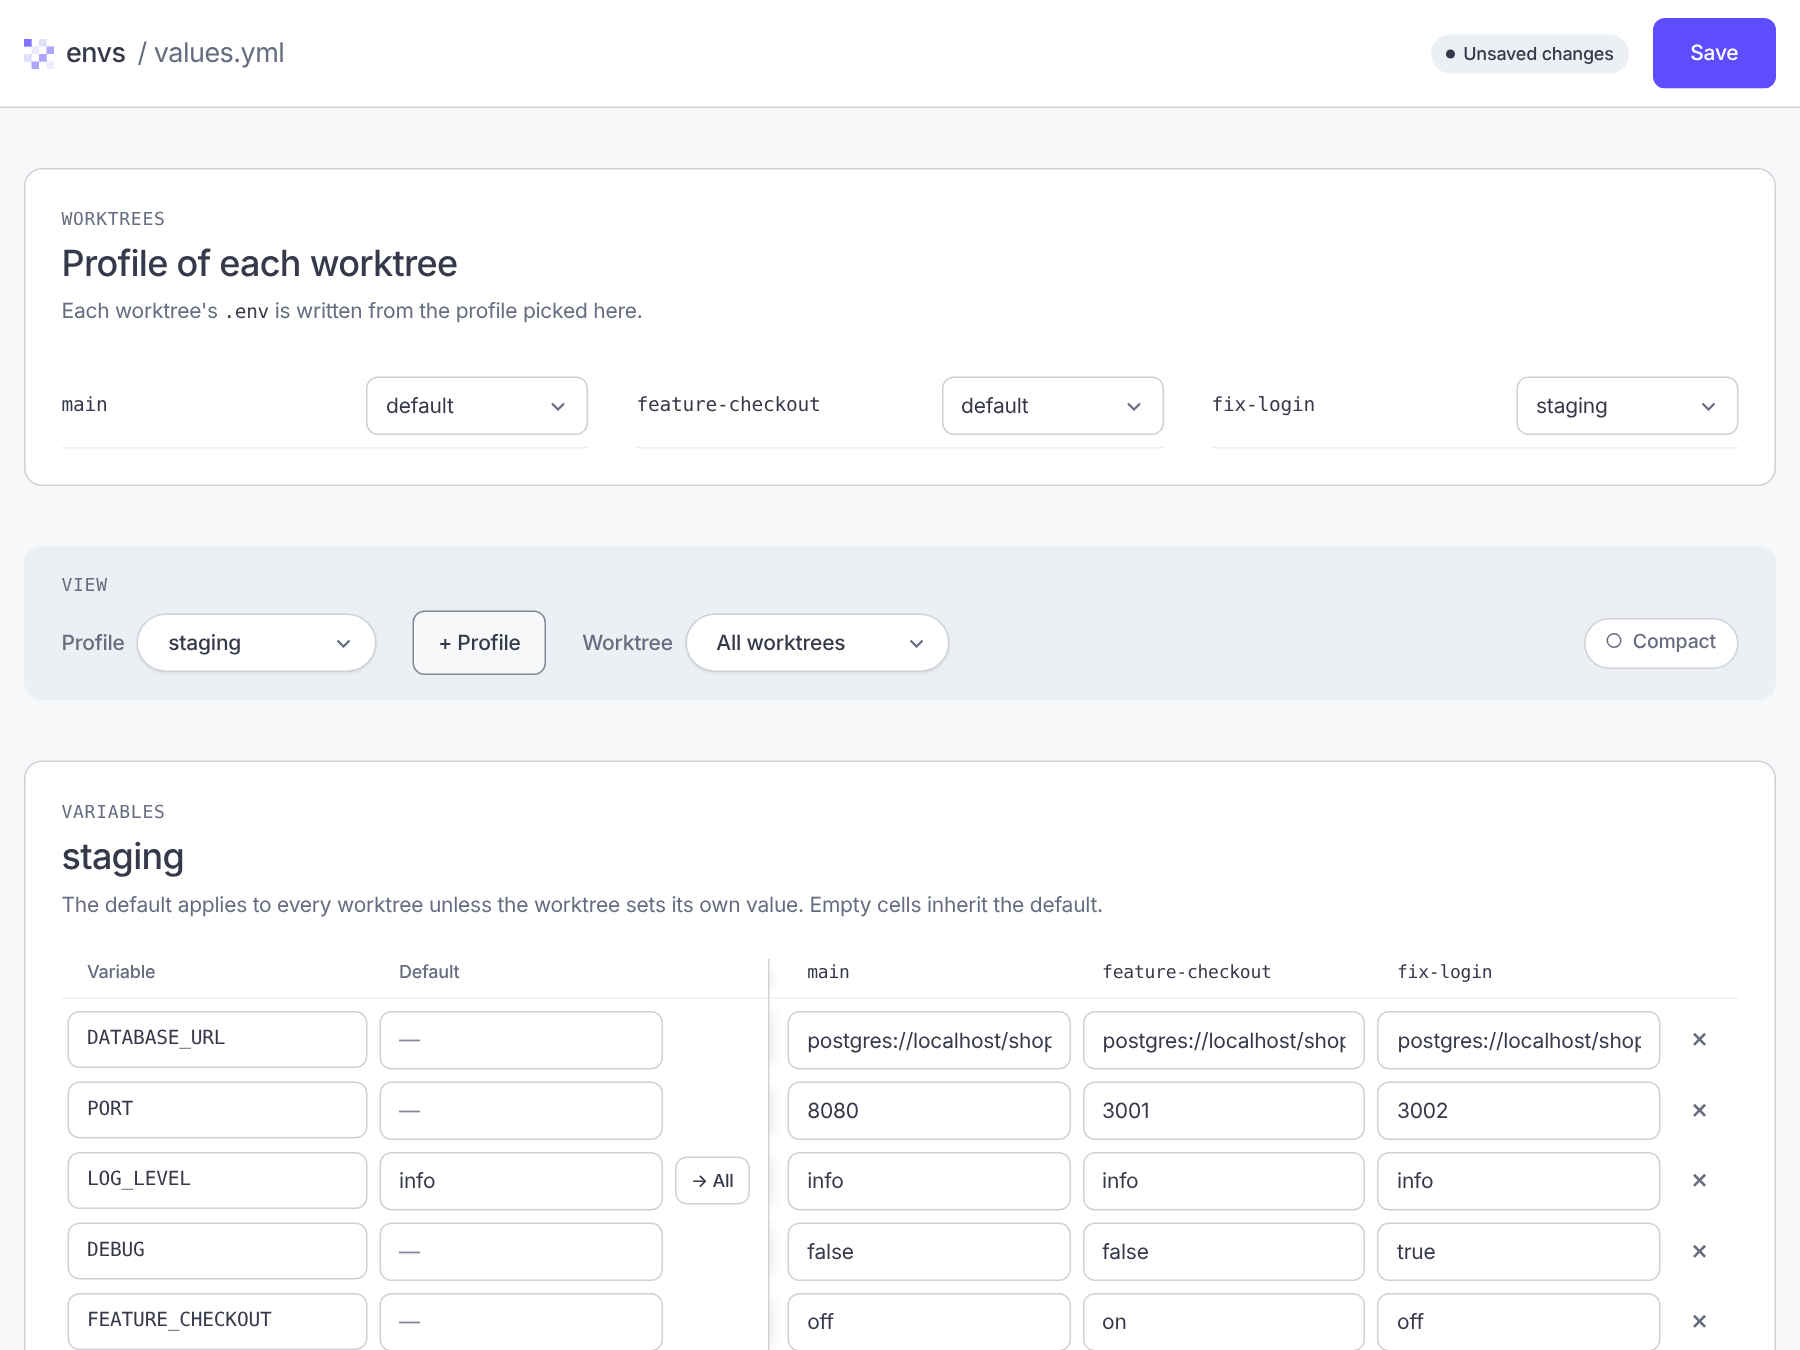
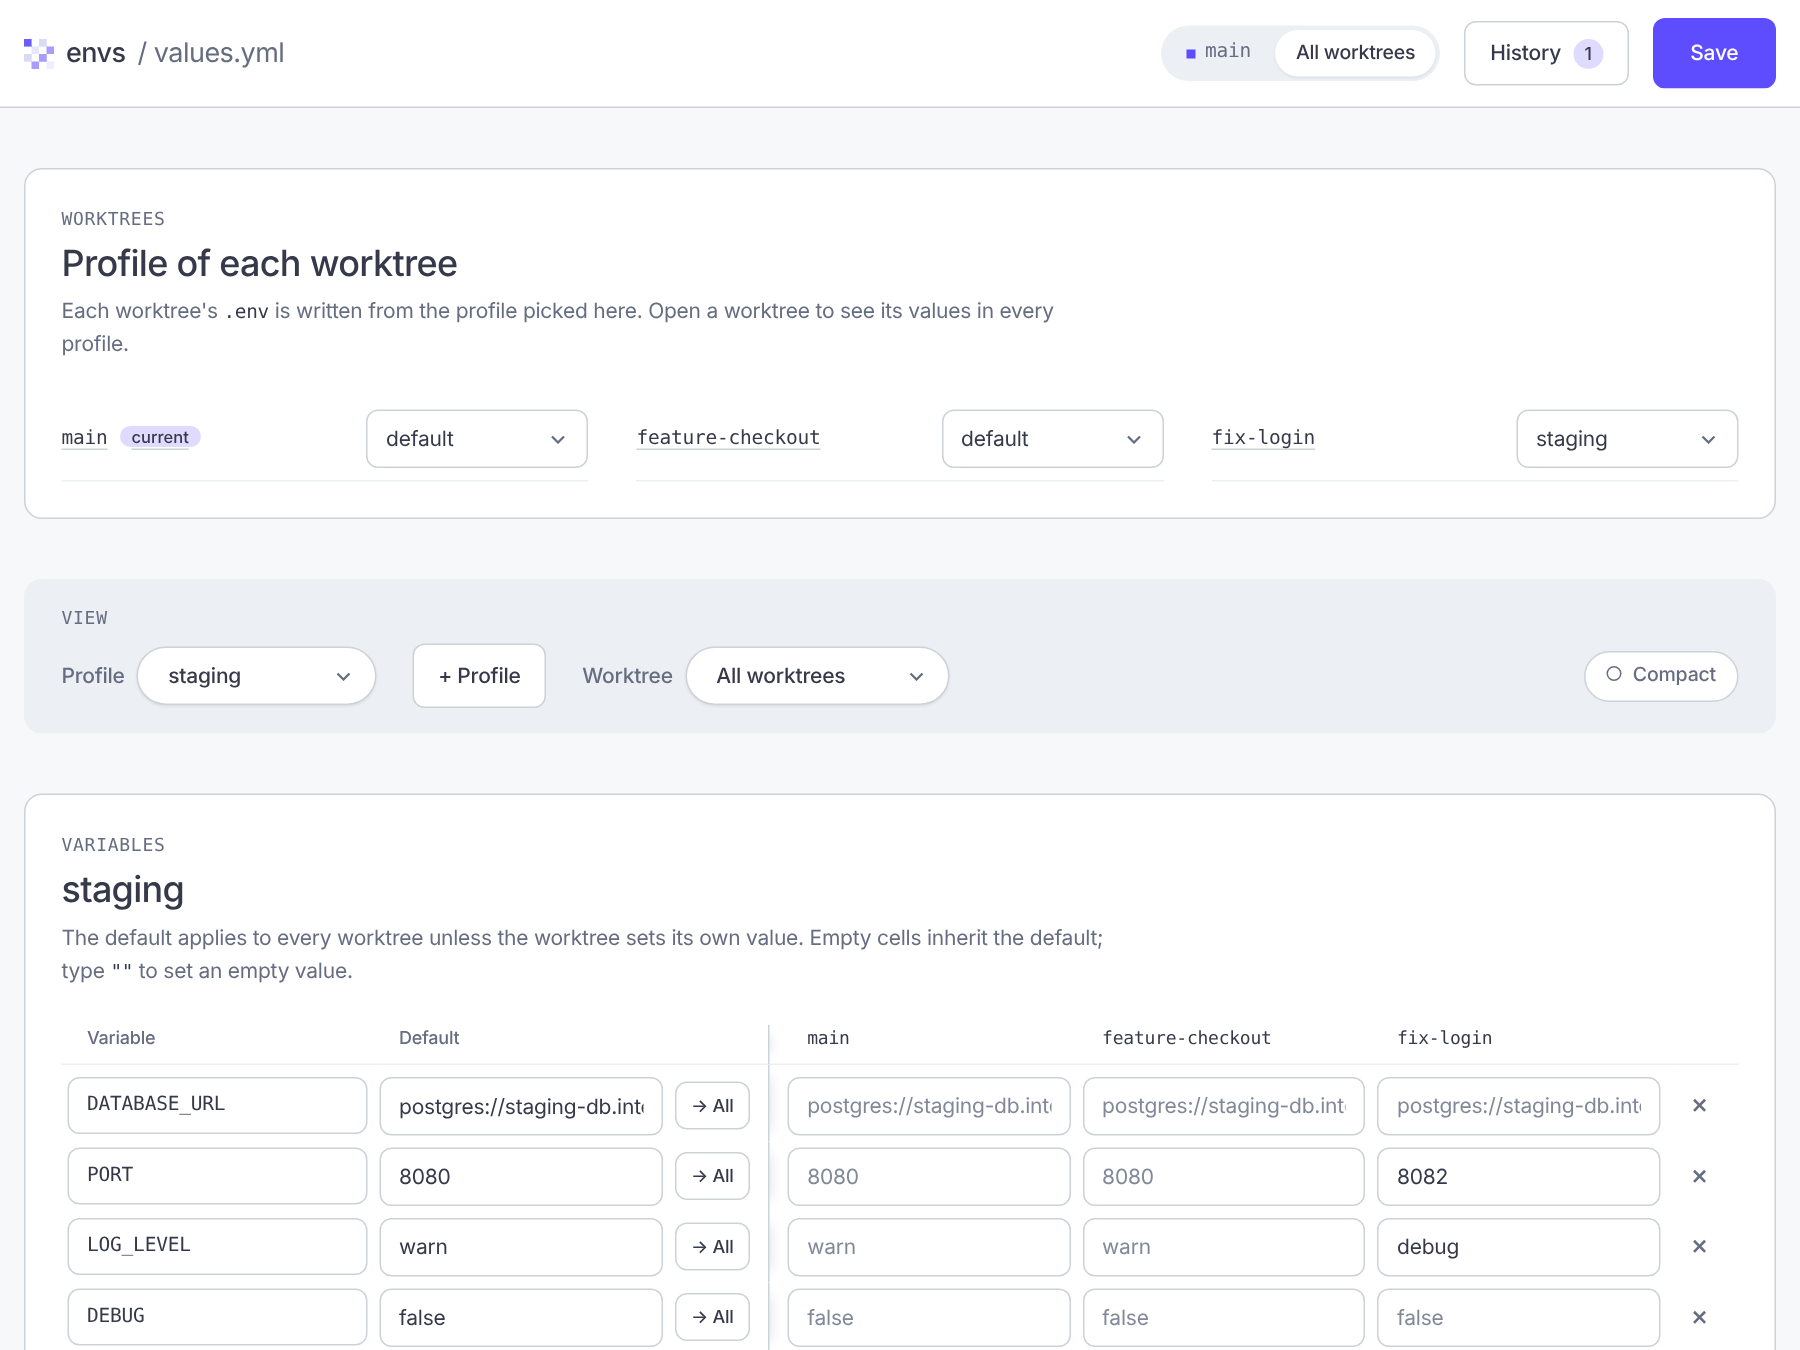
docs(ui): document the worktree page and the two views, retake screenshots
Claude-Session: https://claude.ai/code/session_01WwdBJo2sz6CdQA9eZPTzmE

diff --git a/docs/ui.md b/docs/ui.md
@@ -1,6 +1,6 @@
 # Editor web (`envs edit --ui`)
 
-Interfaz web local para editar `values.yml`. Este documento recorre cada acción con una captura de pantalla de la aplicación. Para el resumen de comandos, consulta el [README](../README.md); para el historial en detalle, [history.md](history.md).
+Interfaz web local para editar `values.yml`. Tiene dos vistas: la [página del worktree](#página-del-worktree), centrada en un worktree y sus valores en cada perfil, y la [vista general](#vista-general-all-worktrees), con todos los worktrees. Este documento recorre cada acción con una captura de pantalla de la aplicación. Para el resumen de comandos, consulta el [README](../README.md); para el historial en detalle, [history.md](history.md).
 
 Las capturas usan un proyecto de ejemplo con tres worktrees (`main`, `feature-checkout` y `fix-login`) y las variables `DATABASE_URL`, `PORT`, `LOG_LEVEL`, `DEBUG` y `FEATURE_CHECKOUT`.
 
@@ -10,7 +10,7 @@ Las capturas usan un proyecto de ejemplo con tres worktrees (`main`, `feature-ch
 envs edit --ui
 ```
 
-Ejecuta `init` (si hace falta) y `pull`, y levanta un servidor en `127.0.0.1` con un puerto aleatorio. Abre la dirección que se imprime (se intenta abrir el navegador por ti, mediante una página temporal privada que redirige a ella, para que el token no aparezca en los argumentos del proceso en `ps`; esa página se borra en cuanto se canjea el token). Si no se puede abrir el navegador, se imprime `Could not open the browser. Open this address manually: <dirección>`. Tiene la forma `http://127.0.0.1:<puerto>/?token=<token>`: el token es aleatorio, distinto en cada ejecución y **de un solo uso**: el navegador lo cambia en la primera visita por una cookie de sesión (`HttpOnly`, `SameSite=Strict`) con otro valor, lo quita de la barra de direcciones, y a partir de ahí la dirección deja de funcionar. Al usarlo, el servidor imprime enseguida en la salida estándar una dirección nueva (`New single-use URL: ...`), también de un solo uso, por si quieres abrir el editor en otro navegador. Detén el servidor con Ctrl+C.
+Ejecuta `init` (si hace falta) y `pull`, y levanta un servidor en `127.0.0.1` con un puerto aleatorio. Abre la dirección que se imprime (se intenta abrir el navegador por ti, mediante una página temporal privada que redirige a ella, para que el token no aparezca en los argumentos del proceso en `ps`; esa página se borra en cuanto se canjea el token). En la terminal integrada de VS Code (`TERM_PROGRAM=vscode`, también en editores basados en él) se abre la dirección `http://` directamente, con `$BROWSER` si está definido (VS Code lo define en las ventanas remotas: SSH, contenedores, WSL) o con `open`/`xdg-open`: así VS Code reenvía el puerto y abre tu navegador local, que no podría leer la página temporal del equipo remoto. Mientras corre ese comando el token se ve en `ps`; sigue siendo de un solo uso. Si no se puede abrir el navegador, se imprime `Could not open the browser. Open this address manually: <dirección>`. Tiene la forma `http://127.0.0.1:<puerto>/?token=<token>`: el token es aleatorio, distinto en cada ejecución y **de un solo uso**: el navegador lo cambia en la primera visita por una cookie de sesión (`HttpOnly`, `SameSite=Strict`) con otro valor, lo quita de la barra de direcciones, y a partir de ahí la dirección deja de funcionar. Al usarlo, el servidor imprime enseguida en la salida estándar una dirección nueva (`New single-use URL: ...`), también de un solo uso, por si quieres abrir el editor en otro navegador. Detén el servidor con Ctrl+C.
 
 ### Acceso al servidor
 
@@ -26,13 +26,21 @@ El servidor expone los valores de tus `.env` (secretos incluidos), así que cada
 
 Además, el servidor nunca responde a las peticiones previas CORS, de modo que ningún otro sitio puede enviarle una escritura JSON. Si abres la dirección sin token, con el token de otra ejecución o con uno ya usado (por ejemplo desde el historial del navegador), ves un `401`: vuelve a abrir la que imprimió `envs edit --ui`.
 
-## Página del worktree
+## Vistas
 
-Si ejecutas `envs edit --ui` dentro de un worktree (en su carpeta o en cualquier subcarpeta, por ejemplo `/foo/workspaces/tar`), el editor se abre en la página de **ese worktree**. Fuera de todo worktree se abre en la [vista general](#1-vista-general).
+| Vista | Dirección | Cuándo se abre |
+| --- | --- | --- |
+| [Página del worktree](#página-del-worktree) | `#/worktree/<nombre>` | Al ejecutar `envs edit --ui` dentro de un worktree (en su carpeta o en cualquier subcarpeta, por ejemplo `/foo/workspaces/tar`): se abre la de **ese worktree**. |
+| [Vista general](#vista-general-all-worktrees) | `#/overview` | Al ejecutar el comando fuera de todo worktree, o desde la pestaña **All worktrees**. |
+
+El encabezado muestra las dos vistas como pestañas: la del worktree (con un cuadrado violeta si es desde donde ejecutaste el comando) y **All worktrees**. En la vista general, el nombre de cada worktree abre su página, y en la página del worktree **Switch to** pasa a otro. La vista queda en la dirección, así que recargar o el botón Atrás del navegador la conservan; un nombre desconocido en la dirección vuelve a la página del worktree actual o, si no hay, a la vista general. Para saber desde qué worktree se ejecutó el comando, el editor usa el campo `current` de `GET /api/values` (ver [Notas](#notas)).
+
+Ambas vistas comparten el encabezado (estado, **History**, **Save**), el panel del historial y el registro del `push`: los cambios sin guardar se conservan al pasar de una vista a otra y **Save** guarda los de las dos.
+
+## Página del worktree
 
 ![Página del worktree fix-login](assets/images/ui/ui-15-worktree.png)
 
-- **Encabezado:** las dos páginas, como pestañas: el worktree (con un cuadrado violeta si es desde donde ejecutaste el comando) y **All worktrees**, la vista general. En la vista general, el nombre de cada worktree también abre su página. La página queda en la dirección (`#/worktree/<nombre>` o `#/overview`), así que recargar o el botón Atrás del navegador la conservan.
 - **Worktree:** el nombre del worktree (con la etiqueta *current* si es el del comando) y **Switch to** para pasar a otro.
 - **Profile:** el perfil que usa este worktree; es el mismo valor que *Profile of each worktree* de la vista general. **+ Profile** crea un perfil nuevo como copia de `default` y lo asigna a este worktree.
 - **Variables:** una fila por cada variable de **cualquier** perfil y estas columnas:
@@ -42,11 +50,27 @@ Si ejecutas `envs edit --ui` dentro de un worktree (en su carpeta o en cualquier
 - **+ Add variable** agrega una fila en todos los perfiles; no se guarda hasta que tiene nombre. Renombrar una variable la renombra en todos los perfiles; si el nombre ya existe, el campo se marca en rojo y el cambio no se aplica. **×** quita la variable de todos los perfiles.
 - Como en la vista general, `""` fija una variable en la cadena vacía, y **Save** (o Ctrl/Cmd+S), el estado, **History** y el registro del `push` funcionan igual.
 
-## 1. Vista general
+### Elegir el perfil desde la tabla
+
+![Cursor sobre el encabezado del perfil default](assets/images/ui/ui-16-use-profile.png)
+
+Al pasar el cursor por el encabezado de una columna de perfil que no está en uso aparece la etiqueta **USE**; un clic hace que el worktree use ese perfil. Es lo mismo que elegirlo en **Profile**: la columna pasa a ser la primera, se resalta, **Defaults** muestra los de ese perfil y el encabezado indica **Unsaved changes** hasta que guardes. Con el teclado, el encabezado se alcanza con Tab y se activa con Enter o Espacio.
+
+### Muchos perfiles
+
+![Diez perfiles, con la tabla desplazada a la derecha](assets/images/ui/ui-17-many-profiles.png)
+
+Con más perfiles de los que caben en el ancho, la tabla se desplaza horizontalmente: **Variable** y **Defaults** quedan fijas a la izquierda y el resto de las columnas pasa por debajo. Con más de seis perfiles el modo **Compact** se activa solo (puedes desactivarlo). La columna del perfil en uso va primera, pero no queda fija: al desplazarte hacia los últimos perfiles deja de verse. En pantallas angostas (hasta 480 px de ancho) solo **Variable** queda fija.
+
+## Vista general (All worktrees)
+
+La vista con todos los worktrees: el perfil de cada uno y, para un perfil, una columna por worktree.
+
+## 1. Resumen
 
 ![Vista general del editor](assets/images/ui/ui-01-overview.png)
 
-- **Encabezado:** el estado (por ejemplo *Unsaved changes*), el botón **History** y **Save**. **History** lleva al panel del historial, que está al final de la página, y muestra cuántos puntos hay; el foco pasa al título del panel. Con el historial desactivado, el botón sigue ahí y el panel lo explica.
+- **Encabezado:** las pestañas de las [vistas](#vistas), el estado (por ejemplo *Unsaved changes*), el botón **History** y **Save**. **History** lleva al panel del historial, que está al final de la página, y muestra cuántos puntos hay; el foco pasa al título del panel. Con el historial desactivado, el botón sigue ahí y el panel lo explica.
 - **Worktrees:** el perfil de cada worktree. Cada nombre abre la [página de ese worktree](#página-del-worktree).
 - **View:** el perfil y el worktree que se muestran, y el modo compacto.
 - **Variables:** una tabla con una columna de valor por defecto y una columna por worktree.
@@ -146,4 +170,4 @@ Un punto de [resincronización](history.md#puntos-de-resincronización) lleva la
 
 - Con el historial desactivado (`envs config set history false`), el panel muestra un mensaje y no ofrece restablecer.
 - El servidor solo escucha en `127.0.0.1`, exige el token en todas las rutas (ver «Acceso al servidor») y expone `GET/PUT /api/values`, `GET /api/history` y `POST /api/restore`. `GET /api/values` incluye `current`, el worktree desde el que se ejecutó el comando (ausente si la carpeta no está en ninguno).
-- Las capturas se generaron con Chromium (Playwright) sobre un proyecto de ejemplo; las fechas y hashes varían en cada ejecución.
+- Las capturas se generaron con Chromium (Playwright) sobre un proyecto de ejemplo; las fechas y hashes varían en cada ejecución. La de muchos perfiles usa diez perfiles (`default`, `staging`, `production`, `qa`, `dev-local`, `perf-testing`, `demo`, `sandbox`, `eu-west` y `us-east-backup`).

diff --git a/docs/features.md b/docs/features.md
@@ -28,7 +28,7 @@ Resumen de las funcionalidades de `@jondotsoy/envs`. Para el detalle de uso, con
 ## Editores
 
 - **VS Code** (`envs edit`): abre `values.yml` con `code -w`; si el editor falla, no se hace `push`.
-- **Editor web** (`envs edit --ui`): servidor local (`127.0.0.1`, puerto aleatorio) con una interfaz React para perfiles, valores por defecto y valores por worktree. El botón **Save** guarda y hace `push`. La dirección que imprime lleva un token de **un solo uso** (el navegador lo cambia por una cookie de sesión; al usarlo se imprime una dirección nueva) que no aparece en `ps`; si no se puede abrir el navegador, se imprime la dirección para abrirla a mano (ver [ui.md](ui.md)).
+- **Editor web** (`envs edit --ui`): servidor local (`127.0.0.1`, puerto aleatorio) con una interfaz React para perfiles, valores por defecto y valores por worktree. El botón **Save** guarda y hace `push`. La dirección que imprime lleva un token de **un solo uso** (el navegador lo cambia por una cookie de sesión; al usarlo se imprime una dirección nueva) que no aparece en `ps`; si no se puede abrir el navegador, se imprime la dirección para abrirla a mano (ver [ui.md](ui.md)). Ejecutado dentro de un worktree se abre en la página de ese worktree, con su perfil y sus valores en cada perfil; **All worktrees** muestra la vista general.
 - **Panel History** del editor web: lista los puntos del historial (el más reciente primero). Al pasar el mouse o hacer clic en un punto (el clic solo lo selecciona) muestra qué cambiaría respecto al editor: en rojo lo que se eliminaría y en verde lo que cambiaría o se agregaría. El botón **Restore** pide confirmación y restablece ese punto agregando uno nuevo.
 
 ![Editor web iniciado con envs edit --ui](assets/images/edit-ui.png)
